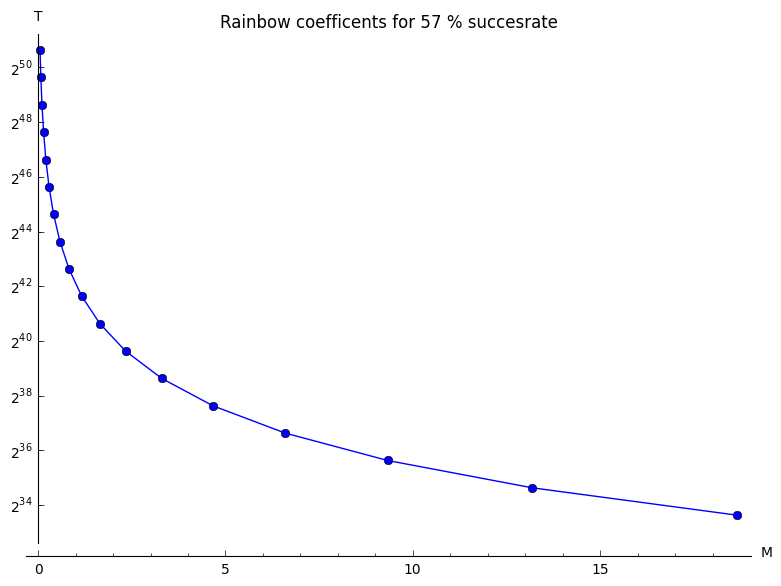
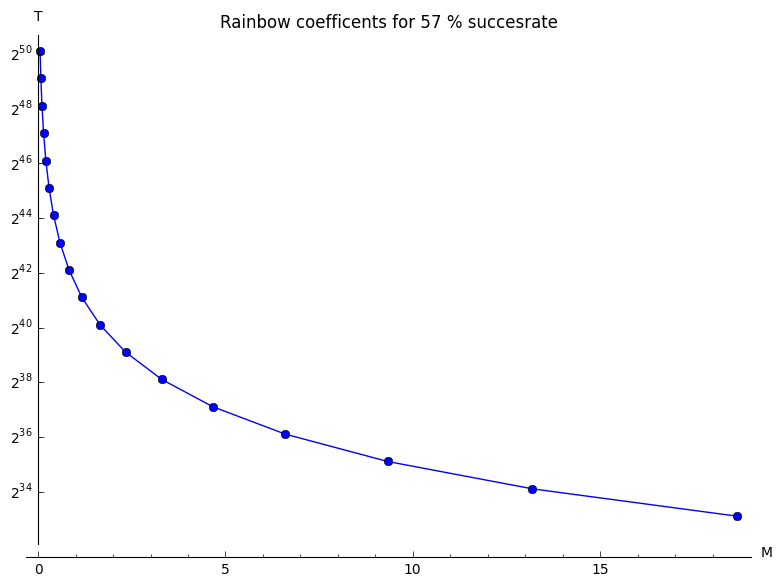
more precise implementation of online time required

diff --git a/src/math/rainbowtab.tex b/src/math/rainbowtab.tex
@@ -3,74 +3,74 @@
 \\\\
 \begin{tabular}{llll}
 m & t & M(TB) & T \\ \hline
-$2^{37.00}$ & $2^{27.12}$ & $0.02$ & $2^{54.24}$ \\
-$2^{37.50}$ & $2^{26.62}$ & $0.02$ & $2^{53.24}$ \\
-$2^{38.00}$ & $2^{26.12}$ & $0.03$ & $2^{52.24}$ \\
-$2^{38.50}$ & $2^{25.62}$ & $0.05$ & $2^{51.24}$ \\
-$2^{39.00}$ & $2^{25.12}$ & $0.07$ & $2^{50.24}$ \\
-$2^{39.50}$ & $2^{24.62}$ & $0.10$ & $2^{49.24}$ \\
-$2^{40.00}$ & $2^{24.12}$ & $0.14$ & $2^{48.24}$ \\
-$2^{40.50}$ & $2^{23.62}$ & $0.19$ & $2^{47.24}$ \\
-$2^{41.00}$ & $2^{23.12}$ & $0.27$ & $2^{46.24}$ \\
-$2^{41.50}$ & $2^{22.62}$ & $0.39$ & $2^{45.24}$ \\
-$2^{42.00}$ & $2^{22.12}$ & $0.55$ & $2^{44.24}$ \\
-$2^{42.50}$ & $2^{21.62}$ & $0.78$ & $2^{43.24}$ \\
-$2^{43.00}$ & $2^{21.12}$ & $1.10$ & $2^{42.24}$ \\
-$2^{43.50}$ & $2^{20.62}$ & $1.55$ & $2^{41.24}$ \\
-$2^{44.00}$ & $2^{20.12}$ & $2.20$ & $2^{40.24}$ \\
-$2^{44.50}$ & $2^{19.62}$ & $3.11$ & $2^{39.24}$ \\
-$2^{45.00}$ & $2^{19.12}$ & $4.40$ & $2^{38.24}$ \\
-$2^{45.50}$ & $2^{18.62}$ & $6.22$ & $2^{37.24}$ \\
+$2^{37.00}$ & $2^{27.12}$ & $0.02$ & $2^{52.43}$ \\
+$2^{37.50}$ & $2^{26.62}$ & $0.02$ & $2^{51.43}$ \\
+$2^{38.00}$ & $2^{26.12}$ & $0.03$ & $2^{50.43}$ \\
+$2^{38.50}$ & $2^{25.62}$ & $0.05$ & $2^{49.43}$ \\
+$2^{39.00}$ & $2^{25.12}$ & $0.07$ & $2^{48.43}$ \\
+$2^{39.50}$ & $2^{24.62}$ & $0.10$ & $2^{47.43}$ \\
+$2^{40.00}$ & $2^{24.12}$ & $0.14$ & $2^{46.43}$ \\
+$2^{40.50}$ & $2^{23.62}$ & $0.19$ & $2^{45.43}$ \\
+$2^{41.00}$ & $2^{23.12}$ & $0.27$ & $2^{44.43}$ \\
+$2^{41.50}$ & $2^{22.62}$ & $0.39$ & $2^{43.43}$ \\
+$2^{42.00}$ & $2^{22.12}$ & $0.55$ & $2^{42.43}$ \\
+$2^{42.50}$ & $2^{21.62}$ & $0.78$ & $2^{41.43}$ \\
+$2^{43.00}$ & $2^{21.12}$ & $1.10$ & $2^{40.43}$ \\
+$2^{43.50}$ & $2^{20.62}$ & $1.55$ & $2^{39.43}$ \\
+$2^{44.00}$ & $2^{20.12}$ & $2.20$ & $2^{38.43}$ \\
+$2^{44.50}$ & $2^{19.62}$ & $3.11$ & $2^{37.43}$ \\
+$2^{45.00}$ & $2^{19.12}$ & $4.40$ & $2^{36.43}$ \\
+$2^{45.50}$ & $2^{18.62}$ & $6.22$ & $2^{35.43}$ \\
 \end{tabular}
-\\\\
- \ \text{\texttt{Success{ }={ }0.730000,{ }Rmsc{ }={ }1.849002,{ }l{
-     }={ }1,{ }Offline{ }phase{ }={ }2{\char`\^}64.886747}}
+\\\\ 
+\text{\texttt{Success{ }={ }0.730000,{ }Rmsc{ }={ }1.849002,{ }l{ }={
+    }1,{ }Offline{ }phase{ }={ }2{\char`\^}64.886747}}
 \\\\
 \begin{tabular}{llll}
 m & t & M(TB) & T \\ \hline
-$2^{37.00}$ & $2^{27.89}$ & $0.02$ & $2^{55.77}$ \\
-$2^{37.50}$ & $2^{27.39}$ & $0.02$ & $2^{54.77}$ \\
-$2^{38.00}$ & $2^{26.89}$ & $0.03$ & $2^{53.77}$ \\
-$2^{38.50}$ & $2^{26.39}$ & $0.05$ & $2^{52.77}$ \\
-$2^{39.00}$ & $2^{25.89}$ & $0.07$ & $2^{51.77}$ \\
-$2^{39.50}$ & $2^{25.39}$ & $0.10$ & $2^{50.77}$ \\
-$2^{40.00}$ & $2^{24.89}$ & $0.14$ & $2^{49.77}$ \\
-$2^{40.50}$ & $2^{24.39}$ & $0.19$ & $2^{48.77}$ \\
-$2^{41.00}$ & $2^{23.89}$ & $0.27$ & $2^{47.77}$ \\
-$2^{41.50}$ & $2^{23.39}$ & $0.39$ & $2^{46.77}$ \\
-$2^{42.00}$ & $2^{22.89}$ & $0.55$ & $2^{45.77}$ \\
-$2^{42.50}$ & $2^{22.39}$ & $0.78$ & $2^{44.77}$ \\
-$2^{43.00}$ & $2^{21.89}$ & $1.10$ & $2^{43.77}$ \\
-$2^{43.50}$ & $2^{21.39}$ & $1.55$ & $2^{42.77}$ \\
-$2^{44.00}$ & $2^{20.89}$ & $2.20$ & $2^{41.77}$ \\
-$2^{44.50}$ & $2^{20.39}$ & $3.11$ & $2^{40.77}$ \\
-$2^{45.00}$ & $2^{19.89}$ & $4.40$ & $2^{39.77}$ \\
-$2^{45.50}$ & $2^{19.39}$ & $6.22$ & $2^{38.77}$ \\
+$2^{37.00}$ & $2^{27.89}$ & $0.02$ & $2^{53.58}$ \\
+$2^{37.50}$ & $2^{27.39}$ & $0.02$ & $2^{52.58}$ \\
+$2^{38.00}$ & $2^{26.89}$ & $0.03$ & $2^{51.58}$ \\
+$2^{38.50}$ & $2^{26.39}$ & $0.05$ & $2^{50.58}$ \\
+$2^{39.00}$ & $2^{25.89}$ & $0.07$ & $2^{49.58}$ \\
+$2^{39.50}$ & $2^{25.39}$ & $0.10$ & $2^{48.58}$ \\
+$2^{40.00}$ & $2^{24.89}$ & $0.14$ & $2^{47.58}$ \\
+$2^{40.50}$ & $2^{24.39}$ & $0.19$ & $2^{46.58}$ \\
+$2^{41.00}$ & $2^{23.89}$ & $0.27$ & $2^{45.58}$ \\
+$2^{41.50}$ & $2^{23.39}$ & $0.39$ & $2^{44.58}$ \\
+$2^{42.00}$ & $2^{22.89}$ & $0.55$ & $2^{43.58}$ \\
+$2^{42.50}$ & $2^{22.39}$ & $0.78$ & $2^{42.58}$ \\
+$2^{43.00}$ & $2^{21.89}$ & $1.10$ & $2^{41.58}$ \\
+$2^{43.50}$ & $2^{21.39}$ & $1.55$ & $2^{40.58}$ \\
+$2^{44.00}$ & $2^{20.89}$ & $2.20$ & $2^{39.58}$ \\
+$2^{44.50}$ & $2^{20.39}$ & $3.11$ & $2^{38.58}$ \\
+$2^{45.00}$ & $2^{19.89}$ & $4.40$ & $2^{37.58}$ \\
+$2^{45.50}$ & $2^{19.39}$ & $6.22$ & $2^{36.58}$ \\
 \end{tabular}
 \\\\
-  \text{\texttt{Success{ }={ }0.900000,{ }Rmsc{ }={ }4.324555,{ }l{
-      }={ }1,{ }Offline{ }phase{ }={ }2{\char`\^}66.112552}}
+\text{\texttt{Success{ }={ }0.900000,{ }Rmsc{ }={ }4.324555,{ }l{ }={
+    }1,{ }Offline{ }phase{ }={ }2{\char`\^}66.112552}}
 \\\\
 \begin{tabular}{llll}
 m & t & M(TB) & T \\ \hline
-$2^{37.00}$ & $2^{29.11}$ & $0.02$ & $2^{58.23}$ \\
-$2^{37.50}$ & $2^{28.61}$ & $0.02$ & $2^{57.23}$ \\
-$2^{38.00}$ & $2^{28.11}$ & $0.03$ & $2^{56.23}$ \\
-$2^{38.50}$ & $2^{27.61}$ & $0.05$ & $2^{55.23}$ \\
-$2^{39.00}$ & $2^{27.11}$ & $0.07$ & $2^{54.23}$ \\
-$2^{39.50}$ & $2^{26.61}$ & $0.10$ & $2^{53.23}$ \\
-$2^{40.00}$ & $2^{26.11}$ & $0.14$ & $2^{52.23}$ \\
-$2^{40.50}$ & $2^{25.61}$ & $0.19$ & $2^{51.23}$ \\
-$2^{41.00}$ & $2^{25.11}$ & $0.27$ & $2^{50.23}$ \\
-$2^{41.50}$ & $2^{24.61}$ & $0.39$ & $2^{49.23}$ \\
-$2^{42.00}$ & $2^{24.11}$ & $0.55$ & $2^{48.23}$ \\
-$2^{42.50}$ & $2^{23.61}$ & $0.78$ & $2^{47.23}$ \\
-$2^{43.00}$ & $2^{23.11}$ & $1.10$ & $2^{46.23}$ \\
-$2^{43.50}$ & $2^{22.61}$ & $1.55$ & $2^{45.23}$ \\
-$2^{44.00}$ & $2^{22.11}$ & $2.20$ & $2^{44.23}$ \\
-$2^{44.50}$ & $2^{21.61}$ & $3.11$ & $2^{43.23}$ \\
-$2^{45.00}$ & $2^{21.11}$ & $4.40$ & $2^{42.23}$ \\
-$2^{45.50}$ & $2^{20.61}$ & $6.22$ & $2^{41.23}$ \\
+$2^{37.00}$ & $2^{29.11}$ & $0.02$ & $2^{55.19}$ \\
+$2^{37.50}$ & $2^{28.61}$ & $0.02$ & $2^{54.19}$ \\
+$2^{38.00}$ & $2^{28.11}$ & $0.03$ & $2^{53.19}$ \\
+$2^{38.50}$ & $2^{27.61}$ & $0.05$ & $2^{52.19}$ \\
+$2^{39.00}$ & $2^{27.11}$ & $0.07$ & $2^{51.19}$ \\
+$2^{39.50}$ & $2^{26.61}$ & $0.10$ & $2^{50.19}$ \\
+$2^{40.00}$ & $2^{26.11}$ & $0.14$ & $2^{49.19}$ \\
+$2^{40.50}$ & $2^{25.61}$ & $0.19$ & $2^{48.19}$ \\
+$2^{41.00}$ & $2^{25.11}$ & $0.27$ & $2^{47.19}$ \\
+$2^{41.50}$ & $2^{24.61}$ & $0.39$ & $2^{46.19}$ \\
+$2^{42.00}$ & $2^{24.11}$ & $0.55$ & $2^{45.19}$ \\
+$2^{42.50}$ & $2^{23.61}$ & $0.78$ & $2^{44.19}$ \\
+$2^{43.00}$ & $2^{23.11}$ & $1.10$ & $2^{43.19}$ \\
+$2^{43.50}$ & $2^{22.61}$ & $1.55$ & $2^{42.19}$ \\
+$2^{44.00}$ & $2^{22.11}$ & $2.20$ & $2^{41.19}$ \\
+$2^{44.50}$ & $2^{21.61}$ & $3.11$ & $2^{40.19}$ \\
+$2^{45.00}$ & $2^{21.11}$ & $4.40$ & $2^{39.19}$ \\
+$2^{45.50}$ & $2^{20.61}$ & $6.22$ & $2^{38.19}$ \\
 \end{tabular}
 \\\\
  \text{\texttt{Success{ }={ }0.580000,{ }Rmsc{ }={ }0.311116,{ }l{ }={
@@ -78,71 +78,72 @@ $2^{45.50}$ & $2^{20.61}$ & $6.22$ & $2^{41.23}$ \\
 \\\\
 \begin{tabular}{llll}
 m & t & M(TB) & T \\ \hline
-$2^{37.00}$ & $2^{25.32}$ & $0.05$ & $2^{50.63}$ \\
-$2^{37.50}$ & $2^{24.82}$ & $0.07$ & $2^{49.63}$ \\
-$2^{38.00}$ & $2^{24.32}$ & $0.10$ & $2^{48.63}$ \\
-$2^{38.50}$ & $2^{23.82}$ & $0.15$ & $2^{47.63}$ \\
-$2^{39.00}$ & $2^{23.32}$ & $0.21$ & $2^{46.63}$ \\
-$2^{39.50}$ & $2^{22.82}$ & $0.29$ & $2^{45.63}$ \\
-$2^{40.00}$ & $2^{22.32}$ & $0.41$ & $2^{44.63}$ \\
-$2^{40.50}$ & $2^{21.82}$ & $0.58$ & $2^{43.63}$ \\
-$2^{41.00}$ & $2^{21.32}$ & $0.82$ & $2^{42.63}$ \\
-$2^{41.50}$ & $2^{20.82}$ & $1.17$ & $2^{41.63}$ \\
-$2^{42.00}$ & $2^{20.32}$ & $1.65$ & $2^{40.63}$ \\
-$2^{42.50}$ & $2^{19.82}$ & $2.33$ & $2^{39.63}$ \\
-$2^{43.00}$ & $2^{19.32}$ & $3.30$ & $2^{38.63}$ \\
-$2^{43.50}$ & $2^{18.82}$ & $4.66$ & $2^{37.63}$ \\
-$2^{44.00}$ & $2^{18.32}$ & $6.60$ & $2^{36.63}$ \\
-$2^{44.50}$ & $2^{17.82}$ & $9.33$ & $2^{35.63}$ \\
-$2^{45.00}$ & $2^{17.32}$ & $13.19$ & $2^{34.63}$ \\
-$2^{45.50}$ & $2^{16.82}$ & $18.66$ & $2^{33.63}$ \\
+$2^{37.00}$ & $2^{25.32}$ & $0.05$ & $2^{50.11}$ \\
+$2^{37.50}$ & $2^{24.82}$ & $0.07$ & $2^{49.11}$ \\
+$2^{38.00}$ & $2^{24.32}$ & $0.10$ & $2^{48.11}$ \\
+$2^{38.50}$ & $2^{23.82}$ & $0.15$ & $2^{47.11}$ \\
+$2^{39.00}$ & $2^{23.32}$ & $0.21$ & $2^{46.11}$ \\
+$2^{39.50}$ & $2^{22.82}$ & $0.29$ & $2^{45.11}$ \\
+$2^{40.00}$ & $2^{22.32}$ & $0.41$ & $2^{44.11}$ \\
+$2^{40.50}$ & $2^{21.82}$ & $0.58$ & $2^{43.11}$ \\
+$2^{41.00}$ & $2^{21.32}$ & $0.82$ & $2^{42.11}$ \\
+$2^{41.50}$ & $2^{20.82}$ & $1.17$ & $2^{41.11}$ \\
+$2^{42.00}$ & $2^{20.32}$ & $1.65$ & $2^{40.11}$ \\
+$2^{42.50}$ & $2^{19.82}$ & $2.33$ & $2^{39.11}$ \\
+$2^{43.00}$ & $2^{19.32}$ & $3.30$ & $2^{38.11}$ \\
+$2^{43.50}$ & $2^{18.82}$ & $4.66$ & $2^{37.11}$ \\
+$2^{44.00}$ & $2^{18.32}$ & $6.60$ & $2^{36.11}$ \\
+$2^{44.50}$ & $2^{17.82}$ & $9.33$ & $2^{35.11}$ \\
+$2^{45.00}$ & $2^{17.32}$ & $13.19$ & $2^{34.11}$ \\
+$2^{45.50}$ & $2^{16.82}$ & $18.66$ & $2^{33.11}$ \\
 \end{tabular}
- \\\\ \text{\texttt{Success{ }={ }0.730000,{ }Rmsc{ }={ }0.487727,{
-     }l{ }={ }3,{ }Offline{ }phase{ }={ }2{\char`\^}64.549108}}
+\\\\
+ \text{\texttt{Success{ }={ }0.730000,{ }Rmsc{ }={ }0.487727,{ }l{ }={
+     }3,{ }Offline{ }phase{ }={ }2{\char`\^}64.549108}}
 \\\\
 \begin{tabular}{llll}
 m & t & M(TB) & T \\ \hline
-$2^{37.00}$ & $2^{25.96}$ & $0.05$ & $2^{51.93}$ \\
-$2^{37.50}$ & $2^{25.46}$ & $0.07$ & $2^{50.93}$ \\
-$2^{38.00}$ & $2^{24.96}$ & $0.10$ & $2^{49.93}$ \\
-$2^{38.50}$ & $2^{24.46}$ & $0.15$ & $2^{48.93}$ \\
-$2^{39.00}$ & $2^{23.96}$ & $0.21$ & $2^{47.93}$ \\
-$2^{39.50}$ & $2^{23.46}$ & $0.29$ & $2^{46.93}$ \\
-$2^{40.00}$ & $2^{22.96}$ & $0.41$ & $2^{45.93}$ \\
-$2^{40.50}$ & $2^{22.46}$ & $0.58$ & $2^{44.93}$ \\
-$2^{41.00}$ & $2^{21.96}$ & $0.82$ & $2^{43.93}$ \\
-$2^{41.50}$ & $2^{21.46}$ & $1.17$ & $2^{42.93}$ \\
-$2^{42.00}$ & $2^{20.96}$ & $1.65$ & $2^{41.93}$ \\
-$2^{42.50}$ & $2^{20.46}$ & $2.33$ & $2^{40.93}$ \\
-$2^{43.00}$ & $2^{19.96}$ & $3.30$ & $2^{39.93}$ \\
-$2^{43.50}$ & $2^{19.46}$ & $4.66$ & $2^{38.93}$ \\
-$2^{44.00}$ & $2^{18.96}$ & $6.60$ & $2^{37.93}$ \\
-$2^{44.50}$ & $2^{18.46}$ & $9.33$ & $2^{36.93}$ \\
-$2^{45.00}$ & $2^{17.96}$ & $13.19$ & $2^{35.93}$ \\
-$2^{45.50}$ & $2^{17.46}$ & $18.66$ & $2^{34.93}$ \\
+$2^{37.00}$ & $2^{25.96}$ & $0.05$ & $2^{50.84}$ \\
+$2^{37.50}$ & $2^{25.46}$ & $0.07$ & $2^{49.84}$ \\
+$2^{38.00}$ & $2^{24.96}$ & $0.10$ & $2^{48.84}$ \\
+$2^{38.50}$ & $2^{24.46}$ & $0.15$ & $2^{47.84}$ \\
+$2^{39.00}$ & $2^{23.96}$ & $0.21$ & $2^{46.84}$ \\
+$2^{39.50}$ & $2^{23.46}$ & $0.29$ & $2^{45.84}$ \\
+$2^{40.00}$ & $2^{22.96}$ & $0.41$ & $2^{44.84}$ \\
+$2^{40.50}$ & $2^{22.46}$ & $0.58$ & $2^{43.84}$ \\
+$2^{41.00}$ & $2^{21.96}$ & $0.82$ & $2^{42.84}$ \\
+$2^{41.50}$ & $2^{21.46}$ & $1.17$ & $2^{41.84}$ \\
+$2^{42.00}$ & $2^{20.96}$ & $1.65$ & $2^{40.84}$ \\
+$2^{42.50}$ & $2^{20.46}$ & $2.33$ & $2^{39.84}$ \\
+$2^{43.00}$ & $2^{19.96}$ & $3.30$ & $2^{38.84}$ \\
+$2^{43.50}$ & $2^{19.46}$ & $4.66$ & $2^{37.84}$ \\
+$2^{44.00}$ & $2^{18.96}$ & $6.60$ & $2^{36.84}$ \\
+$2^{44.50}$ & $2^{18.46}$ & $9.33$ & $2^{35.84}$ \\
+$2^{45.00}$ & $2^{17.96}$ & $13.19$ & $2^{34.84}$ \\
+$2^{45.50}$ & $2^{17.46}$ & $18.66$ & $2^{33.84}$ \\
 \end{tabular}
 \\\\
-  \text{\texttt{Success{ }={ }0.900000,{ }Rmsc{ }={ }0.935599,{ }l{
-      }={ }3,{ }Offline{ }phase{ }={ }2{\char`\^}65.488924}}
+ \text{\texttt{Success{ }={ }0.900000,{ }Rmsc{ }={ }0.935599,{ }l{ }={
+     }3,{ }Offline{ }phase{ }={ }2{\char`\^}65.488924}}
 \\\\
 \begin{tabular}{llll}
 m & t & M(TB) & T \\ \hline
-$2^{37.00}$ & $2^{26.90}$ & $0.05$ & $2^{53.81}$ \\
-$2^{37.50}$ & $2^{26.40}$ & $0.07$ & $2^{52.81}$ \\
-$2^{38.00}$ & $2^{25.90}$ & $0.10$ & $2^{51.81}$ \\
-$2^{38.50}$ & $2^{25.40}$ & $0.15$ & $2^{50.81}$ \\
-$2^{39.00}$ & $2^{24.90}$ & $0.21$ & $2^{49.81}$ \\
-$2^{39.50}$ & $2^{24.40}$ & $0.29$ & $2^{48.81}$ \\
-$2^{40.00}$ & $2^{23.90}$ & $0.41$ & $2^{47.81}$ \\
-$2^{40.50}$ & $2^{23.40}$ & $0.58$ & $2^{46.81}$ \\
-$2^{41.00}$ & $2^{22.90}$ & $0.82$ & $2^{45.81}$ \\
-$2^{41.50}$ & $2^{22.40}$ & $1.17$ & $2^{44.81}$ \\
-$2^{42.00}$ & $2^{21.90}$ & $1.65$ & $2^{43.81}$ \\
-$2^{42.50}$ & $2^{21.40}$ & $2.33$ & $2^{42.81}$ \\
-$2^{43.00}$ & $2^{20.90}$ & $3.30$ & $2^{41.81}$ \\
-$2^{43.50}$ & $2^{20.40}$ & $4.66$ & $2^{40.81}$ \\
-$2^{44.00}$ & $2^{19.90}$ & $6.60$ & $2^{39.81}$ \\
-$2^{44.50}$ & $2^{19.40}$ & $9.33$ & $2^{38.81}$ \\
-$2^{45.00}$ & $2^{18.90}$ & $13.19$ & $2^{37.81}$ \\
-$2^{45.50}$ & $2^{18.40}$ & $18.66$ & $2^{36.81}$ \\
+$2^{37.00}$ & $2^{26.90}$ & $0.05$ & $2^{51.46}$ \\
+$2^{37.50}$ & $2^{26.40}$ & $0.07$ & $2^{50.46}$ \\
+$2^{38.00}$ & $2^{25.90}$ & $0.10$ & $2^{49.46}$ \\
+$2^{38.50}$ & $2^{25.40}$ & $0.15$ & $2^{48.46}$ \\
+$2^{39.00}$ & $2^{24.90}$ & $0.21$ & $2^{47.46}$ \\
+$2^{39.50}$ & $2^{24.40}$ & $0.29$ & $2^{46.46}$ \\
+$2^{40.00}$ & $2^{23.90}$ & $0.41$ & $2^{45.46}$ \\
+$2^{40.50}$ & $2^{23.40}$ & $0.58$ & $2^{44.46}$ \\
+$2^{41.00}$ & $2^{22.90}$ & $0.82$ & $2^{43.46}$ \\
+$2^{41.50}$ & $2^{22.40}$ & $1.17$ & $2^{42.46}$ \\
+$2^{42.00}$ & $2^{21.90}$ & $1.65$ & $2^{41.46}$ \\
+$2^{42.50}$ & $2^{21.40}$ & $2.33$ & $2^{40.46}$ \\
+$2^{43.00}$ & $2^{20.90}$ & $3.30$ & $2^{39.46}$ \\
+$2^{43.50}$ & $2^{20.40}$ & $4.66$ & $2^{38.46}$ \\
+$2^{44.00}$ & $2^{19.90}$ & $6.60$ & $2^{37.46}$ \\
+$2^{44.50}$ & $2^{19.40}$ & $9.33$ & $2^{36.46}$ \\
+$2^{45.00}$ & $2^{18.90}$ & $13.19$ & $2^{35.46}$ \\
+$2^{45.50}$ & $2^{18.40}$ & $18.66$ & $2^{34.46}$ \\
 \end{tabular}

diff --git a/src/math/RainbowProb.tex b/src/math/RainbowProb.tex
@@ -11,6 +11,6 @@
 \usepackage{url}
 \usepackage{wrapfig}
 \begin{document}
-asds
+asdsasdasd
 \include{rainbowtab}
 \end{document}
